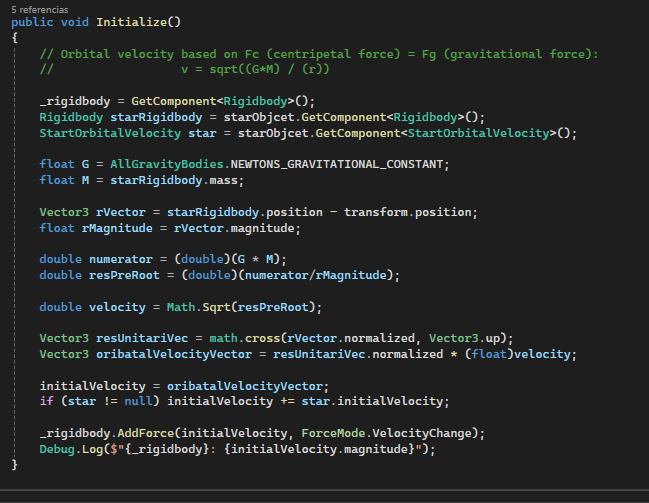
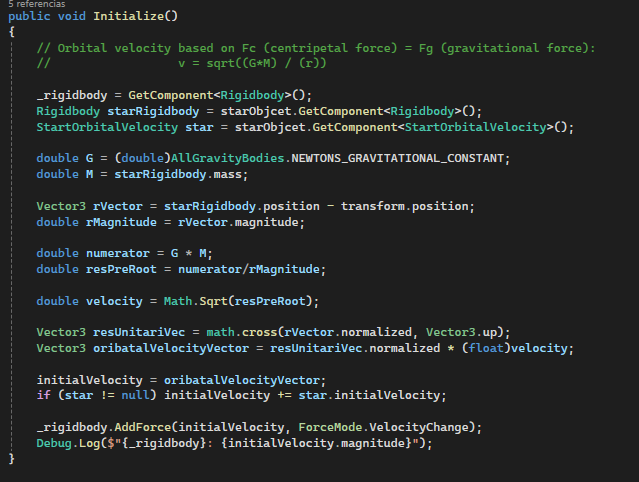
fix(gravity): Initial Orbital Velocity small adjustment

diff --git a/Assets/Scripts/Systems/Gravity/StartOrbitalVelocity.cs b/Assets/Scripts/Systems/Gravity/StartOrbitalVelocity.cs
@@ -18,14 +18,14 @@ public class StartOrbitalVelocity : MonoBehaviour, IInitializable
         Rigidbody starRigidbody = starObjcet.GetComponent<Rigidbody>();
         StartOrbitalVelocity star = starObjcet.GetComponent<StartOrbitalVelocity>();
 
-        float G = AllGravityBodies.NEWTONS_GRAVITATIONAL_CONSTANT;
-        float M = starRigidbody.mass;
+        double G = (double)AllGravityBodies.NEWTONS_GRAVITATIONAL_CONSTANT;
+        double M = starRigidbody.mass;
         
         Vector3 rVector = starRigidbody.position - transform.position;
-        float rMagnitude = rVector.magnitude;
+        double rMagnitude = rVector.magnitude;
 
-        double numerator = (double)(G * M);
-        double resPreRoot = (double)(numerator/rMagnitude);
+        double numerator = G * M;
+        double resPreRoot = numerator/rMagnitude;
 
         double velocity = Math.Sqrt(resPreRoot);
 
